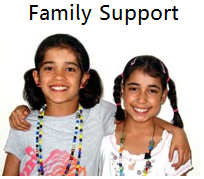
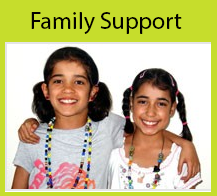
changed the color of the images displayed on the home screen and their backgrounds

diff --git a/CCF2/CCF2/HomePage.xaml b/CCF2/CCF2/HomePage.xaml
@@ -29,37 +29,37 @@
         <!--Grid containind the six different input blocks-->
         <Viewbox Margin="283.493,247.186,282.846,151.814" Stretch="Fill">
             <Grid Height="597" Width="1197.661">
-                <s:SurfaceButton  HorizontalAlignment="Left" Height="260" VerticalAlignment="Top" Width="330" d:LayoutOverrides="VerticalAlignment" Click="WhatWeDo_Click" Background="White">
+                <s:SurfaceButton  HorizontalAlignment="Left" Height="260" VerticalAlignment="Top" Width="330" d:LayoutOverrides="VerticalAlignment" Click="WhatWeDo_Click" Background="#FFF88E1D">
                     <Image  Source="Resources/images/Menu/WhatWeDo1.PNG" HorizontalAlignment="Left" Height="Auto" VerticalAlignment="Center" Width="Auto" Stretch="Fill"/>
                     <s:SurfaceButton.Effect>
                         <DropShadowEffect/>
                     </s:SurfaceButton.Effect>
                 </s:SurfaceButton>
-                <s:SurfaceButton Height="260" Margin="432.67,0,434.991,0" VerticalAlignment="Top" d:LayoutOverrides="VerticalAlignment" Click="HowYouCanHelp_Click" Background="White">
-                    <Image  Source="Resources/images/Menu/HowYouCanHelp1.PNG" HorizontalAlignment="Left" Height="Auto" VerticalAlignment="Center" Width="Auto" Stretch="Fill"/>
+                <s:SurfaceButton Height="260" Margin="432.67,0,434.991,0" VerticalAlignment="Top" d:LayoutOverrides="VerticalAlignment" Click="HowYouCanHelp_Click" Background="#FFDC1F53">
+                    <Image  Source="Resources/images/Menu/HowYouCanHelp1.PNG" HorizontalAlignment="Left" Height="252" VerticalAlignment="Center" Width="322" Stretch="Fill"/>
                     <s:SurfaceButton.Effect>
                         <DropShadowEffect/>
                     </s:SurfaceButton.Effect>
                 </s:SurfaceButton>
-                <s:SurfaceButton HorizontalAlignment="Right" Height="260" VerticalAlignment="Top" Width="330" d:LayoutOverrides="VerticalAlignment" Click="NewsAndEvents_Click" Background="White">
-                    <Image  Source="Resources/images/Menu/NewsAndEvents1.PNG" HorizontalAlignment="Left" Height="Auto" VerticalAlignment="Center" Width="Auto" Stretch="Fill"/>
+                <s:SurfaceButton HorizontalAlignment="Right" Height="260" VerticalAlignment="Top" Width="330" d:LayoutOverrides="VerticalAlignment" Click="NewsAndEvents_Click" Background="#FFF9F247">
+                    <Image  Source="Resources/images/Menu/NewsAndEvents1.PNG" HorizontalAlignment="Left" Height="Auto" Width="Auto" Stretch="Fill"/>
                     <s:SurfaceButton.Effect>
                         <DropShadowEffect/>
                     </s:SurfaceButton.Effect>
                 </s:SurfaceButton>
-                <s:SurfaceButton HorizontalAlignment="Left" Height="260" Margin="0,337,0,0" VerticalAlignment="Top" Width="330" Click="FamilySupport_Click" Background="White">
+                <s:SurfaceButton HorizontalAlignment="Left" Height="260" Margin="0,337,0,0" VerticalAlignment="Top" Width="330" Click="FamilySupport_Click" Background="#FFC6DD2C">
                     <Image  Source="Resources/images/Menu/FamilySupport1.PNG" HorizontalAlignment="Left" Height="Auto" VerticalAlignment="Center" Width="Auto" Stretch="Fill"/>
                     <s:SurfaceButton.Effect>
                         <DropShadowEffect/>
                         </s:SurfaceButton.Effect>
                 </s:SurfaceButton>
-                <s:SurfaceButton  Height="260" Margin="432.67,337,434.991,0" VerticalAlignment="Top" Click="Volunteer_Click" Background="White">
+                <s:SurfaceButton  Height="260" Margin="432.67,337,434.991,0" VerticalAlignment="Top" Click="Volunteer_Click" Background="#FFA54398">
                     <Image  Source="Resources/images/Menu/Volunteer1.PNG" HorizontalAlignment="Left" Height="Auto" VerticalAlignment="Center" Width="Auto" Stretch="Fill"/>
                     <s:SurfaceButton.Effect>
                         <DropShadowEffect/>
                     </s:SurfaceButton.Effect>
                 </s:SurfaceButton>
-                <s:SurfaceButton HorizontalAlignment="Right" Height="260" Margin="0,337,0,0" VerticalAlignment="Top" Width="330" Click="ContactUs_Click" Background="White">
+                <s:SurfaceButton HorizontalAlignment="Right" Height="260" Margin="0,337,0,0" VerticalAlignment="Top" Width="330" Click="ContactUs_Click" Background="#FF2226F1">
                     <Image  Source="Resources/images/Menu/ContactUs1.PNG" HorizontalAlignment="Left" Height="Auto" VerticalAlignment="Center" Width="Auto" Stretch="Fill"/>
                     <s:SurfaceButton.Effect>
                         <DropShadowEffect/>
@@ -100,6 +100,14 @@
         </Rectangle>
         <!--Logo/Home button-->
         <Button Height="Auto" Width="200" Margin="-800.493,-700,0,0" Click="Home_Click">
+        	<Button.Background>
+        		<LinearGradientBrush EndPoint="0,1" StartPoint="0,0">
+        			<GradientStop Color="#FFF3F3F3" Offset="0"/>
+        			<GradientStop Color="#FFEBEBEB" Offset="0.5"/>
+        			<GradientStop Color="#FFDDDDDD" Offset="0.5"/>
+        			<GradientStop Color="#FFC1D72C" Offset="1"/>
+        		</LinearGradientBrush>
+        	</Button.Background>
             <Button.Template>
                 <ControlTemplate>
                     <Image Source="Resources/images/Common/CCF-logo2_200.png"/>
